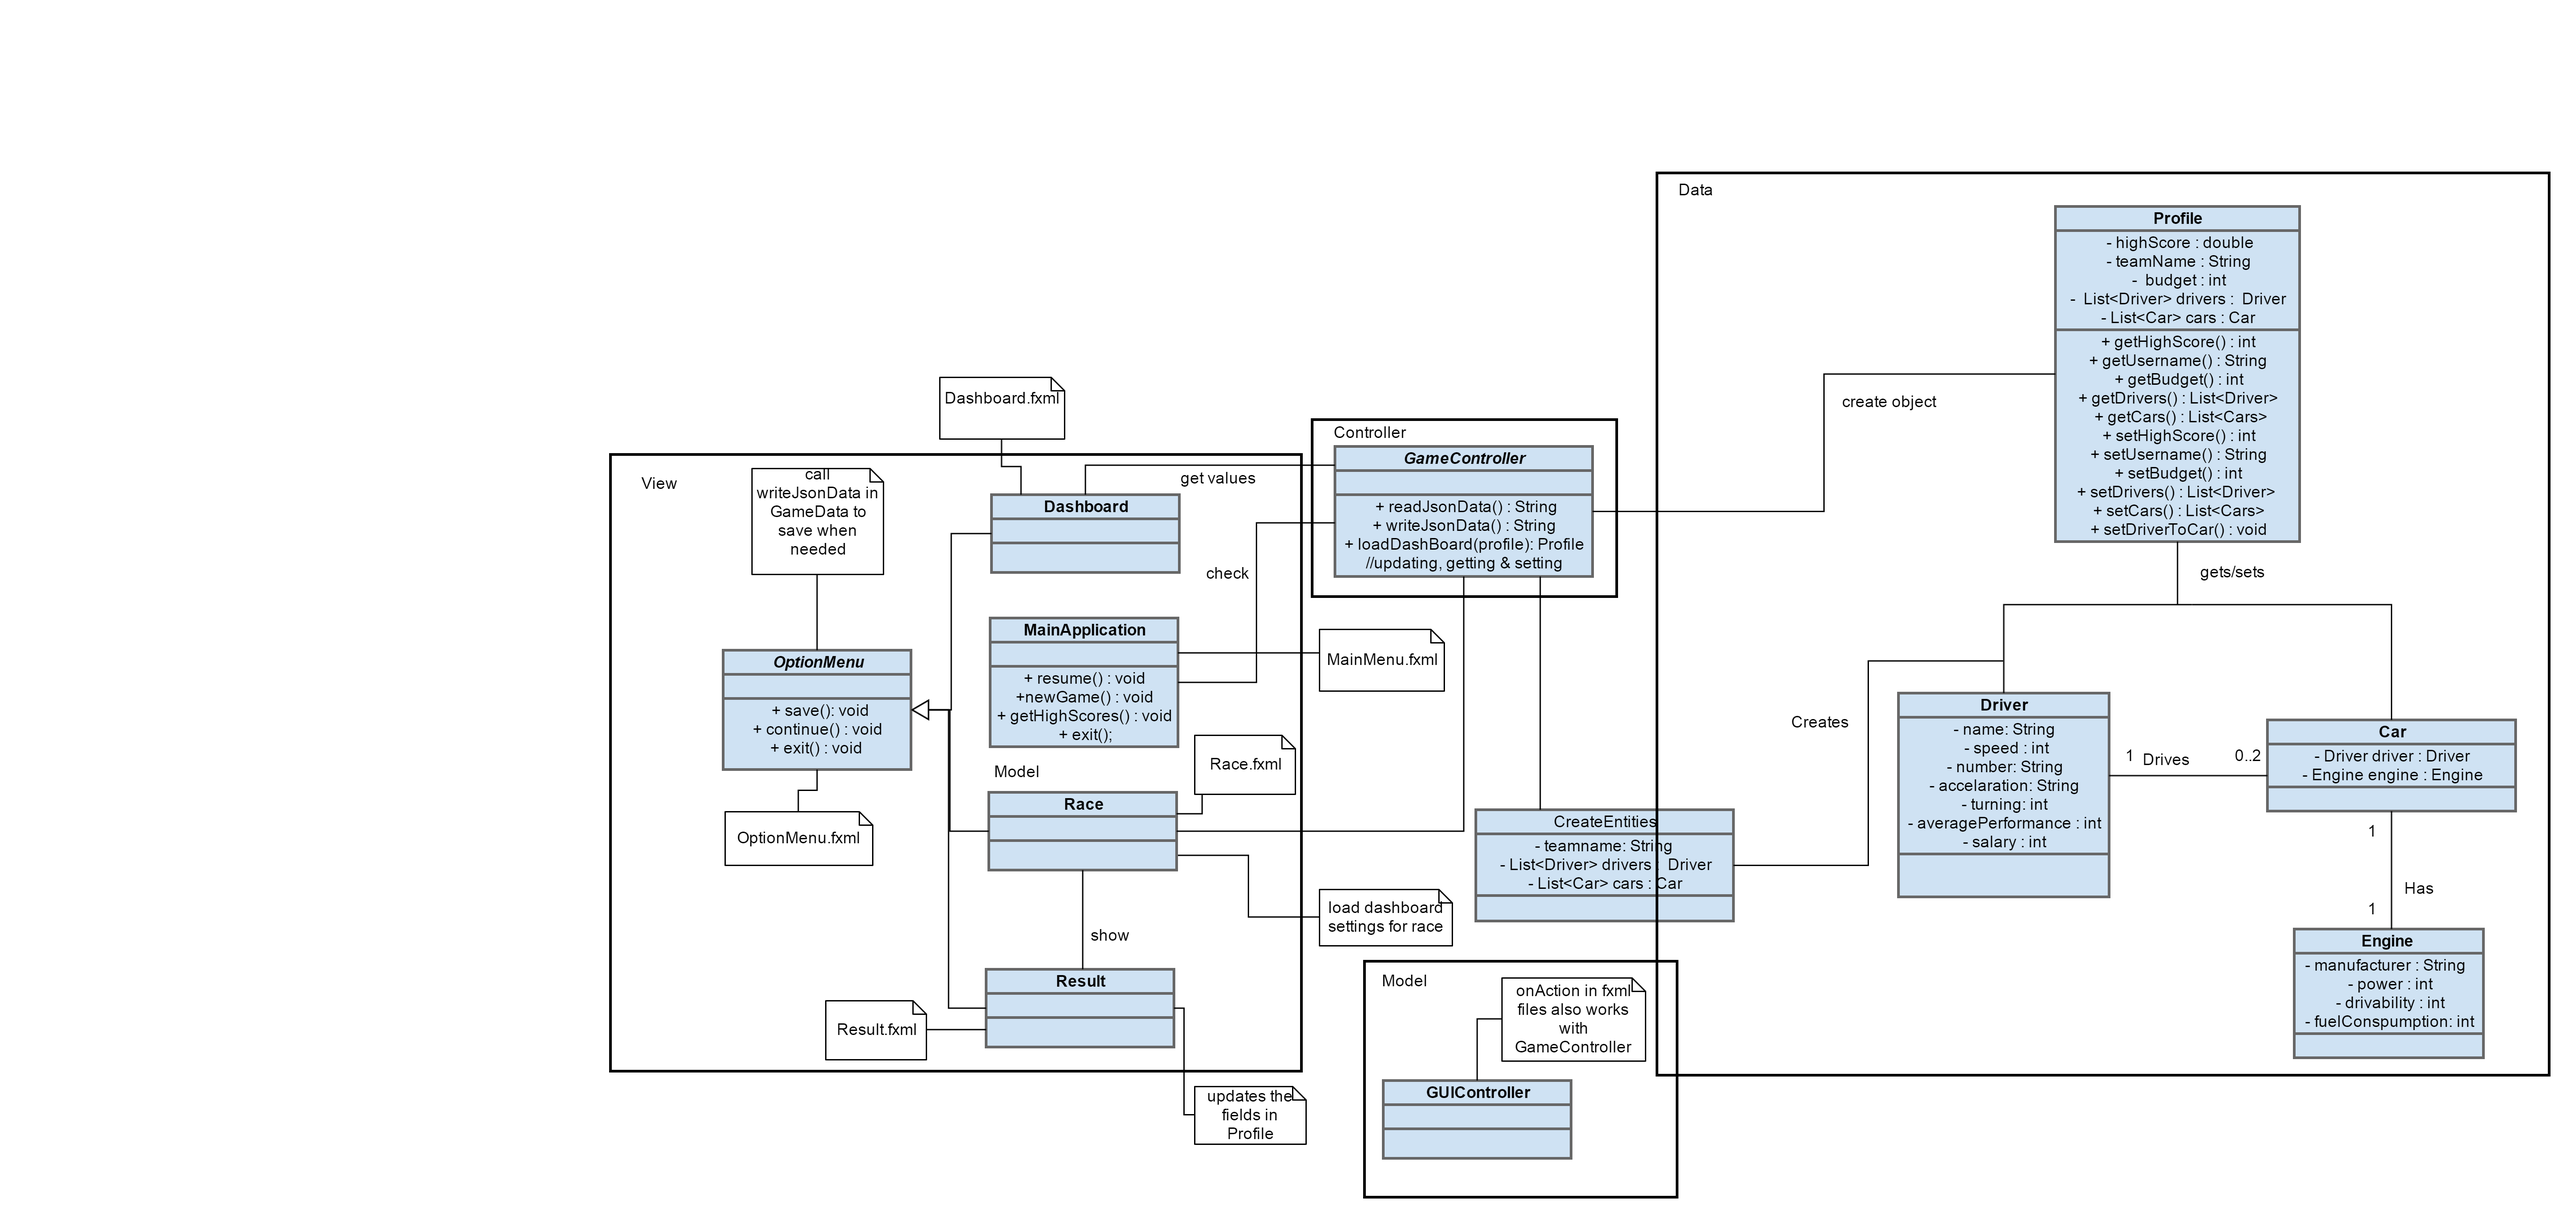
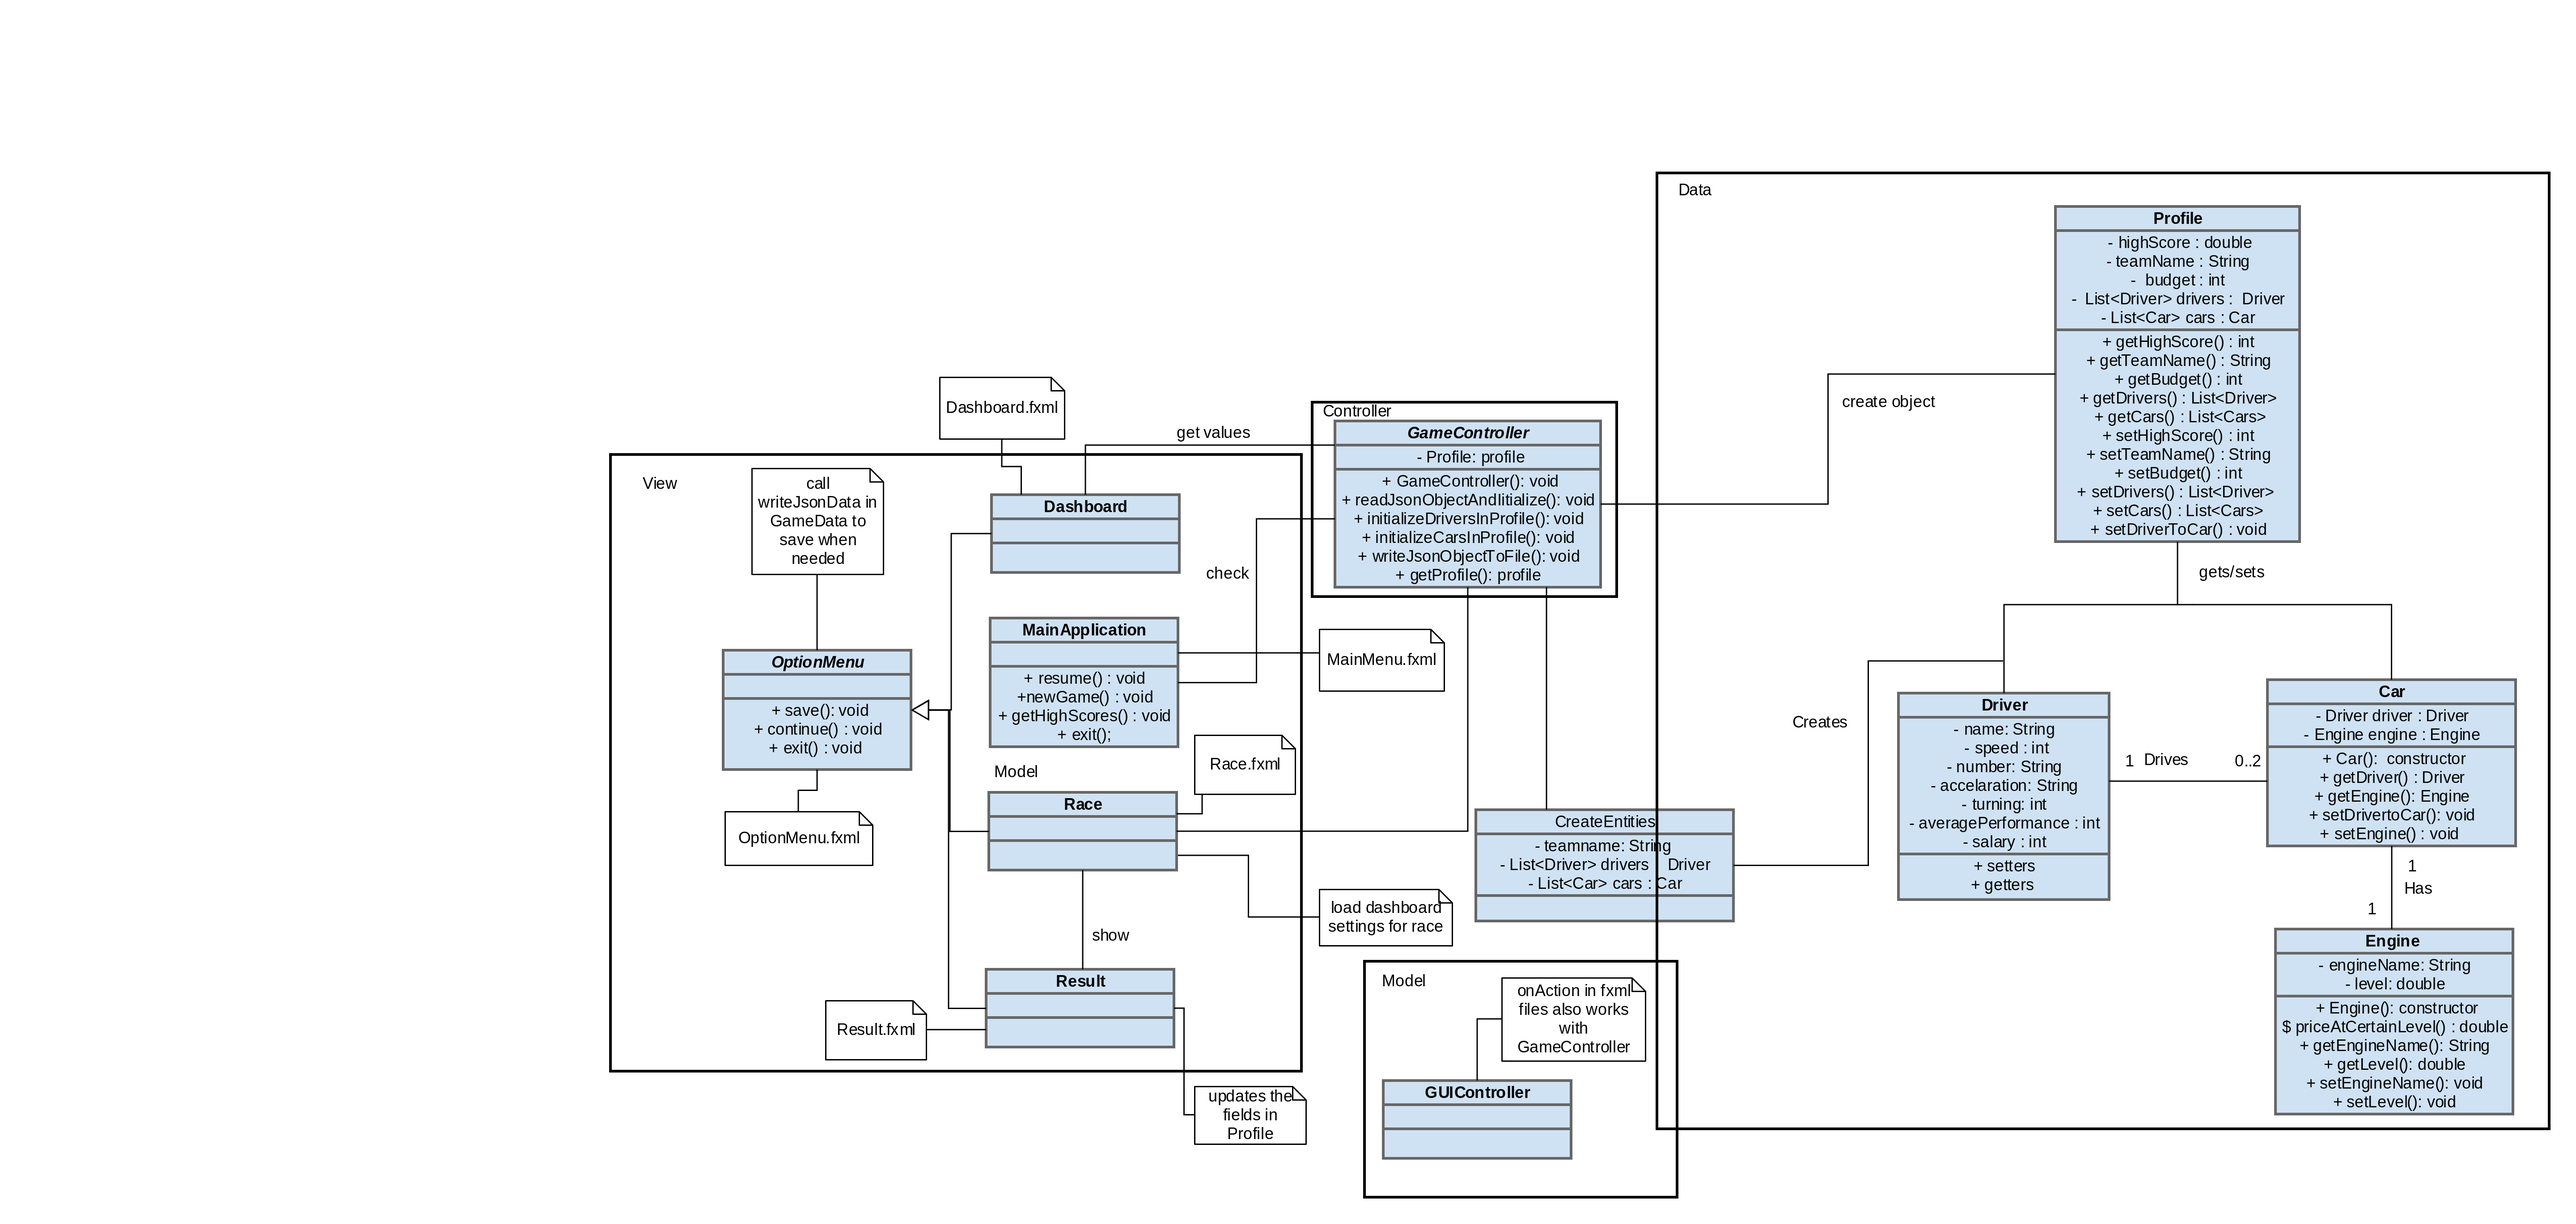
Uml updated. GameController completely recoded to write according to current gameplay aka object in memory.

diff --git a/Formula_1/src/manager/controller/GameController.java b/Formula_1/src/manager/controller/GameController.java
@@ -29,22 +29,27 @@ public class GameController {
 	public GameController() throws IOException
 	{
 		readJsonObjectAndInitialize();
-		writeJsonObjectToFile();
-		
+		writeJsonObjectToFile();	
 	}
-	
-	//from what it reads it will make an object out of it.
+
+	/**
+	 * from what it reads it will make an object out of it.
+	 */
     public void readJsonObjectAndInitialize(){
         
     	JSONParser parser = new JSONParser();
  
         try {
- 
+        	
+        	/*
+        	 * create the profile first
+			 * create the drivers
+			 * create the cars		
+        	 */
         	//###########################Parse##########################
             Object obj = parser.parse(new FileReader("./data.dat"));
             JSONObject jsonObject = (JSONObject) obj;
  
-            //###########################Objects########################
             //getting the teamname
             String teamName = (String) jsonObject.get("Teamname");
             
@@ -54,114 +59,19 @@ public class GameController {
             //getting highscore
             double highScore = Double.parseDouble(String.valueOf(jsonObject.get("Highscore")));
             
-          //###########################Arrays###########################
-            //loop will be implemented
-            //getting car1
-            JSONArray car1Array = (JSONArray) jsonObject.get("Car1");
-            JSONObject brandObject = (JSONObject) car1Array.get(0);
-            String brandValueOfCar1 = (String)brandObject.get("Brand");
-            System.out.println("Brand: " + brandValueOfCar1);
-            
-            String engineValueOfCar1 = (String) brandObject.get("Engine");
-            System.out.println("Engine: " + engineValueOfCar1);
-            
-            Car car1 = new Car(new Driver(), new Engine("test1", 0.0));
-            
-            //getting car2
-            JSONArray car2Array = (JSONArray) jsonObject.get("Car2");
-            brandObject = (JSONObject) car2Array.get(0);
-            String brandValueOfCar2 = (String) brandObject.get("Brand");
-            System.out.println("Brand: " + brandValueOfCar2);
-            
-            String engineValueOfCar2 = (String) brandObject.get("Engine");
-            System.out.println("Engine: " + engineValueOfCar2);
-        
-            Car car2 = new Car(new Driver(),new Engine("test2",0.0));
-            
-            List<Car> carsList = new ArrayList<Car>();
-            carsList.add(car1);
-            carsList.add(car2);
-            
-            //#########################Drivers##########################
-            List<Driver> driversList = new ArrayList<Driver>();
-            
-            String[] infos = new String[7];
-            infos[0] = "Speed";
-            infos[1] = "Salary";
-            infos[2] = "Number";
-            infos[3] = "Turning";
-            infos[4] = "Name";
-            infos[5] = "Acceleration";
-            infos[6] = "AveragePerformance";
-            
-            String driverString = "Driver";
-            JSONArray driverArray;
-        	JSONObject object;
-        	
-            for(int i = 0; i < 11; i++)
-            {
-            	driverString+=i;
-            	//System.out.println(driverString);
-            	driverArray = (JSONArray) jsonObject.get(driverString);
-            	object = (JSONObject) driverArray.get(0);
-            	
-            	//create 11 drivers
-            	Driver driver = new Driver();
-            	
-            	for(int d = 0; d < 7; d++)
-            	{
-                    String valueOfObject = (String)object.get(infos[d]);   
-                    System.out.println(infos[d]+": "+valueOfObject);
-                    
-                    switch(d)
-                    {
-                    	case 0 :int speed = Integer.parseInt(valueOfObject);
-                    			driver.setSpeed(speed);
-                    			break;
-                    	case 1 :double salary = Double.parseDouble(valueOfObject);
-                    			driver.setSalary(salary);
-                				break;
-                    	case 2 :int number = Integer.parseInt(valueOfObject);
-                    			driver.setNumber(number);
-                				break;
-                    	case 3 :int turning = Integer.parseInt(valueOfObject);
-                    			driver.setTurning(turning);
-                				break;
-                    	case 4 :driver.setName(valueOfObject);
-                				break;
-                    	case 5 :int acceleration = Integer.parseInt(valueOfObject);
-                    			driver.setAcceleration(acceleration);
-                				break;
-                    	case 6 :double averagePerformance = Double.parseDouble(valueOfObject);
-                    			driver.setAveragePerformance(averagePerformance);
-                				break;
-                		default : 
-                				break;	
-                    }
-            	}
-            	
-            	//each time it comes out of the inner loop it adds it to the list
-            	driversList.add(driver);
-            	//reset this for each loop
-            	driverString = "Driver";
-                
-            }
- 
+            //just checking
             System.out.println("Teamname: " + teamName);
             System.out.println("Budget: " + budget);
             System.out.println("Highscore: " + highScore);
            
-            //create the profile object
+            //1.
             profile = new Profile(highScore, budget, teamName);
             
-            //Set the drivers to the profile
-            profile.setDrivers(driversList);
-        	
-            //set the cars to the profile
-            profile.setCars(carsList);
-        	
-            //setDriverToCar(,);*/
+            //2.
+            initializeDriversInProfile(jsonObject);
             
+            //3.
+            initializeCarsInProfile(jsonObject);
         } 
         
         catch (Exception e)
@@ -170,9 +80,125 @@ public class GameController {
         }
     }
     
-    @SuppressWarnings("unchecked")
-	public void writeJsonObjectToFile() throws IOException {
+    /**
+     * initializes the drivers to objects in Profile
+     * @param jsonObject
+     */
+    private void initializeDriversInProfile(JSONObject jsonObject) {
+    	List<Driver> driversList = new ArrayList<Driver>();
+        
+        String[] infos = new String[7];
+        infos[0] = "Speed";
+        infos[1] = "Salary";
+        infos[2] = "Number";
+        infos[3] = "Turning";
+        infos[4] = "Name";
+        infos[5] = "Acceleration";
+        infos[6] = "AveragePerformance";
+        
+        String driverString = "Driver";
+        JSONArray driverArray;
+    	JSONObject object;
     	
+        for(int i = 0; i < 11; i++)
+        {
+        	driverString+=i;
+        	//System.out.println(driverString);
+        	driverArray = (JSONArray) jsonObject.get(driverString);
+        	object = (JSONObject) driverArray.get(0);
+        	
+        	//create 11 drivers
+        	Driver driver = new Driver();
+        	
+        	for(int d = 0; d < 7; d++)
+        	{
+                String valueOfObject = String.valueOf(object.get(infos[d]));   
+                System.out.println(infos[d]+": "+valueOfObject);
+                
+                switch(d)
+                {
+                	case 0 :int speed = Integer.parseInt(valueOfObject);
+                			driver.setSpeed(speed);
+                			break;
+                	case 1 :double salary = Double.parseDouble(valueOfObject);
+                			driver.setSalary(salary);
+            				break;
+                	case 2 :int number = Integer.parseInt(valueOfObject);
+                			driver.setNumber(number);
+            				break;
+                	case 3 :int turning = Integer.parseInt(valueOfObject);
+                			driver.setTurning(turning);
+            				break;
+                	case 4 :driver.setName(valueOfObject);
+            				break;
+                	case 5 :int acceleration = Integer.parseInt(valueOfObject);
+                			driver.setAcceleration(acceleration);
+            				break;
+                	case 6 :double averagePerformance = Double.parseDouble(valueOfObject);
+                			driver.setAveragePerformance(averagePerformance);
+            				break;
+            		default : 
+            				break;	
+                }
+        	}
+        	
+        	//each time it comes out of the inner loop it adds it to the list
+        	driversList.add(driver);
+        	//reset this for each loop
+        	driverString = "Driver";
+        }
+        
+        //Set the drivers to the profile
+        profile.setDrivers(driversList);
+	}
+
+    /**
+     * initializes the cars as objects in profile.
+     * @param jsonObject
+     */
+	private void initializeCarsInProfile(JSONObject jsonObject) 
+	{
+        //getting car1 #################################################
+        JSONArray car = (JSONArray) jsonObject.get("Car1");
+        JSONObject enginenameObject = (JSONObject) car.get(0);
+        String engineNameValue = (String)enginenameObject.get("EngineName");
+        System.out.println("Car1");
+        System.out.println("EngineName: " + engineNameValue);
+        
+        double engineValue = Double.parseDouble(String.valueOf(enginenameObject.get("EngineLevel")));
+        System.out.println("EngineLevel: " + engineValue);
+        
+        Car car1 = new Car(new Driver(), new Engine(engineNameValue, engineValue));
+        
+        //getting car2 ################################################
+        car = (JSONArray) jsonObject.get("Car2");
+        enginenameObject = (JSONObject) car.get(0);
+        engineNameValue = (String) enginenameObject.get("EngineName");
+        System.out.println("Car2");
+        System.out.println("EngineName: " + engineNameValue);
+        
+        engineValue = Double.parseDouble(String.valueOf(enginenameObject.get("EngineLevel")));
+        System.out.println("EngineLevel: " + engineValue);
+    
+        Car car2 = new Car(new Driver(), new Engine(engineNameValue, engineValue));
+        
+        //#############################################################
+        List<Car> carsList = new ArrayList<Car>();
+        carsList.add(car1);
+        carsList.add(car2);
+        
+        //set the cars to the profile
+        profile.setCars(carsList);
+	}
+
+	
+	/**
+	 * Writes everything to the data.dat file in json format
+	 * @throws IOException
+	 */
+	@SuppressWarnings("unchecked")
+	public void writeJsonObjectToFile() throws IOException 
+	{
     	//###########################User Profile#########################
     	
     	JSONObject obj = new JSONObject();
@@ -182,8 +208,6 @@ public class GameController {
 				
 		//###########################Car 1################################
 		
-		//car parts.. will adjust it to become:
-		//parts.put("Brand", profile.getBrand()); etc
 		JSONObject partsOfCar1 = new JSONObject();
 		partsOfCar1.put("EngineName", profile.getCars().get(0).getEngine().getEngineName());
 		partsOfCar1.put("EngineLevel", String.valueOf(profile.getCars().get(0).getEngine().getLevel()));
@@ -194,8 +218,8 @@ public class GameController {
 		
 		//###########################Car 2################################
 		JSONObject partsOfCar2 = new JSONObject();
-		partsOfCar2.put("Brand", profile.getCars().get(1).getEngine().getEngineName());
-		partsOfCar2.put("Engine", String.valueOf(profile.getCars().get(0).getEngine().getLevel()));
+		partsOfCar2.put("EngineName", profile.getCars().get(1).getEngine().getEngineName());
+		partsOfCar2.put("EngineLevel", String.valueOf(profile.getCars().get(0).getEngine().getLevel()));
 		
 		JSONArray car2 = new JSONArray();
 		car2.add(partsOfCar2);
@@ -208,13 +232,13 @@ public class GameController {
 		{
 			//standard upon creating a game until you add drivers
 			JSONObject info = new JSONObject();
-			info.put("Name", "A"+i);
-			info.put("Speed", "0");
-			info.put("Number", ""+i);
-			info.put("Acceleration", "0");
-			info.put("Turning", "0");
-			info.put("AveragePerformance", "0");
-			info.put("Salary", "0");
+			info.put("Name", profile.getDrivers().get(i).getName());
+			info.put("Speed", String.valueOf(profile.getDrivers().get(i).getSpeed()));
+			info.put("Number", String.valueOf(profile.getDrivers().get(i).getNumber()));
+			info.put("Acceleration", profile.getDrivers().get(i).getAcceleration());
+			info.put("Turning", profile.getDrivers().get(i).getTurning());
+			info.put("AveragePerformance", String.valueOf(profile.getDrivers().get(i).getAveragePerformance()));
+			info.put("Salary", String.valueOf(profile.getDrivers().get(i).getSalary()));
 			
 			JSONArray driver = new JSONArray();
 			driver.add(info);
@@ -229,7 +253,10 @@ public class GameController {
 		}
     }
     
-    //very important when needing to access data in the profile
+	/**
+	 * very important when needing to access data in the profile
+	 * @return
+	 */
     public Profile getProfile()
     {
     	return this.profile;
